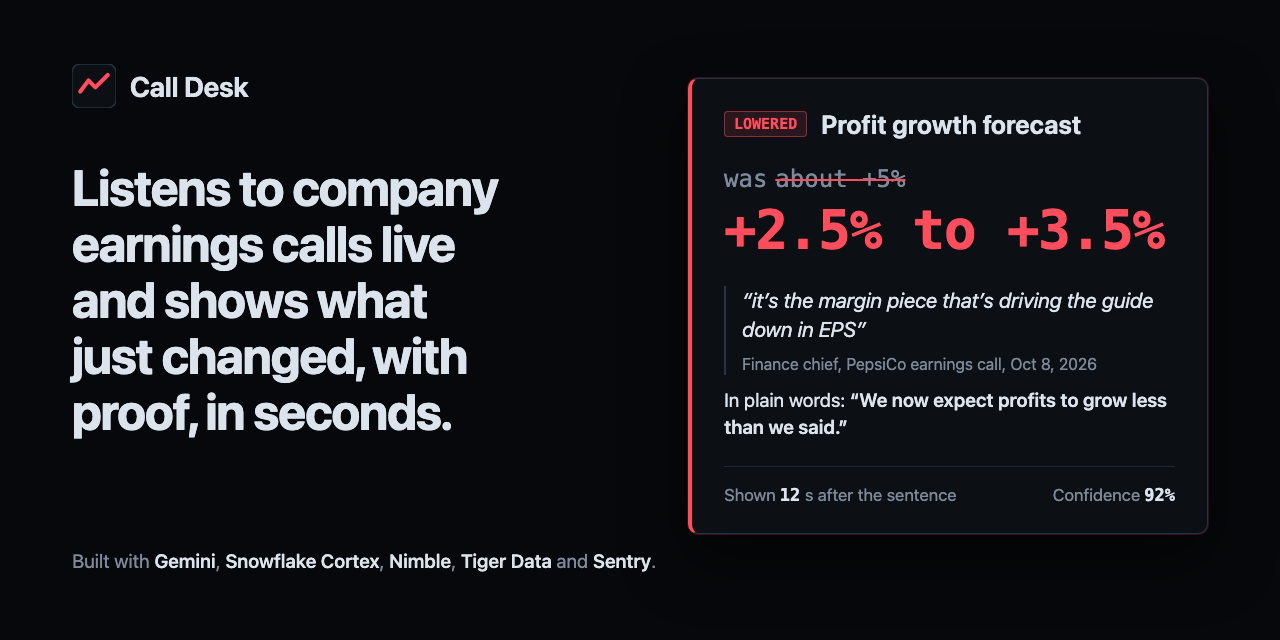
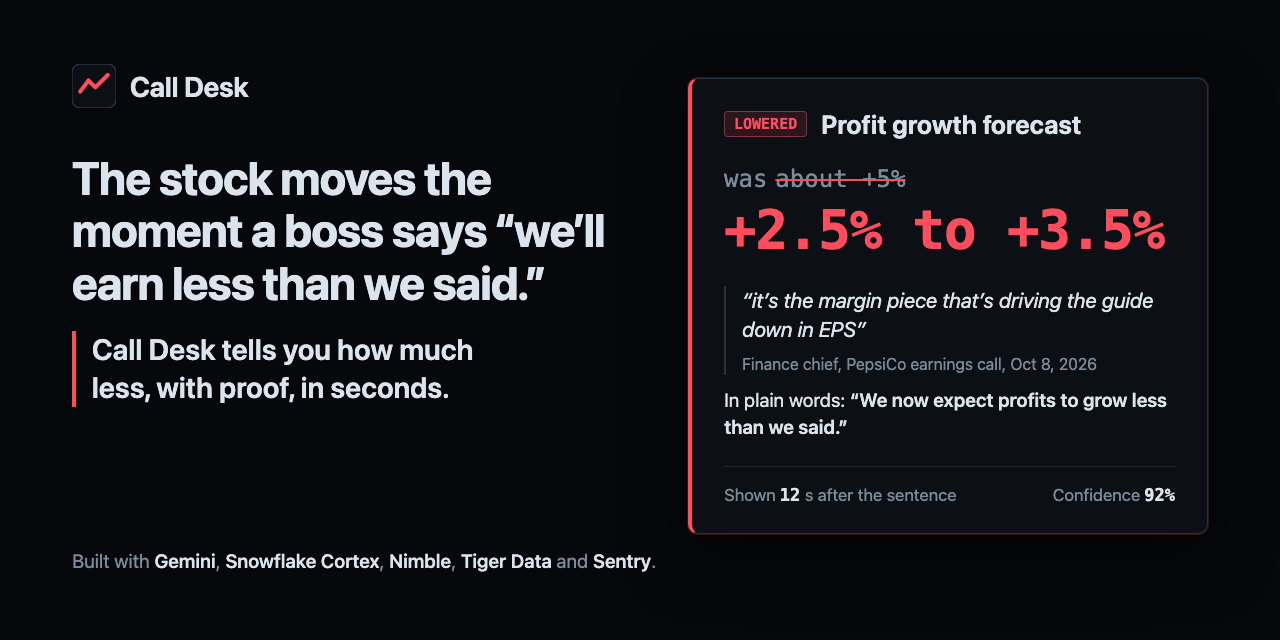
One-liner leads with the pain and the answer (owner's pick): "The stock moves the moment a boss says 'we'll earn less than we said.' Call Desk tells you how much less, with proof, in seconds."
README tagline, MLH pitch (129 characters), DEMO pitch and the share image.
The share image splits it: the pain as the headline, the answer under it.

Changed region(s): [[0.0312, 0.25, 0.4688, 0.5], [0.0312, 0.5312, 0.375, 0.6875]]

diff --git a/docs/media/social-preview.html b/docs/media/social-preview.html
@@ -32,8 +32,12 @@
   .mark svg { width: 44px; height: 44px; }
   .mark span { font-size: 28px; font-weight: 650; letter-spacing: -0.01em; }
   h1 {
-    margin-top: 52px; text-wrap: balance;
-    font-size: 50px; line-height: 1.12; font-weight: 700; letter-spacing: -0.025em;
+    margin-top: 44px; text-wrap: balance;
+    font-size: 46px; line-height: 1.14; font-weight: 700; letter-spacing: -0.02em;
+  }
+  .eureka {
+    margin-top: 22px; padding-left: 16px; border-left: 4px solid var(--red); text-wrap: balance;
+    font-size: 29px; line-height: 1.3; font-weight: 600; color: var(--text);
   }
   .stack { grid-column: 1 / -1; font-size: 19px; line-height: 1.45; color: var(--muted); }
   .stack b { color: var(--text); font-weight: 560; }
@@ -71,7 +75,8 @@
       <svg viewBox="0 0 32 32" aria-hidden="true"><rect width="32" height="32" rx="6" fill="#0c1015" stroke="#273242"/><path d="M6 20 L12 12 L17 17 L26 8" stroke="#ff4d5e" stroke-width="3" fill="none" stroke-linecap="round" stroke-linejoin="round"/></svg>
       <span>Call Desk</span>
     </div>
-    <h1>Listens to company earnings calls live and shows what just changed, with proof, in seconds.</h1>
+    <h1>The stock moves the moment a boss says “we’ll earn less than we said.”</h1>
+    <p class="eureka">Call Desk tells you how much less, with proof, in seconds.</p>
   </section>
 
   <section class="card">

diff --git a/README.md b/README.md
@@ -1,6 +1,6 @@
 # Call Desk
 
-**Listens to company earnings calls live and shows what just changed, with proof, in seconds.**
+**The stock moves the moment a boss says “we'll earn less than we said.” Call Desk tells you how much less, with proof, in seconds.**
 
 [![License: MIT](https://img.shields.io/badge/license-MIT-blue)](LICENSE) ![Python 3.11](https://img.shields.io/badge/python-3.11-3776AB?logo=python&logoColor=white) ![FastAPI](https://img.shields.io/badge/FastAPI-SSE-009688?logo=fastapi&logoColor=white) ![Built at AI Engineer NYC 2026](docs/media/badge-built-at.svg)
 

diff --git a/DEMO.md b/DEMO.md
@@ -26,7 +26,7 @@ Measured in real time with all five sponsors live (final stage run 20261011-1344
 
 ## The pitch in one breath
 
-"When a company's boss mentions a big change on a call with investors, Call Desk finds the exact number and shows you the source, in seconds."
+"The stock moves the moment a boss says 'we'll earn less than we said.' Call Desk tells you how much less, with proof, in seconds."
 
 ## Plain words on stage
 

diff --git a/docs/SUBMISSION.md b/docs/SUBMISSION.md
@@ -14,7 +14,7 @@ https://github.com/zaeem-rafiq/Call-Desk-public. It is the full commit history, 
 
 ## One-line pitch (at most 140 characters)
 
-Listens to company earnings calls live and shows what just changed, with proof, in seconds.
+The stock moves the moment a boss says “we'll earn less than we said.” Call Desk tells you how much less, with proof, in seconds.
 
 ## Description
 
